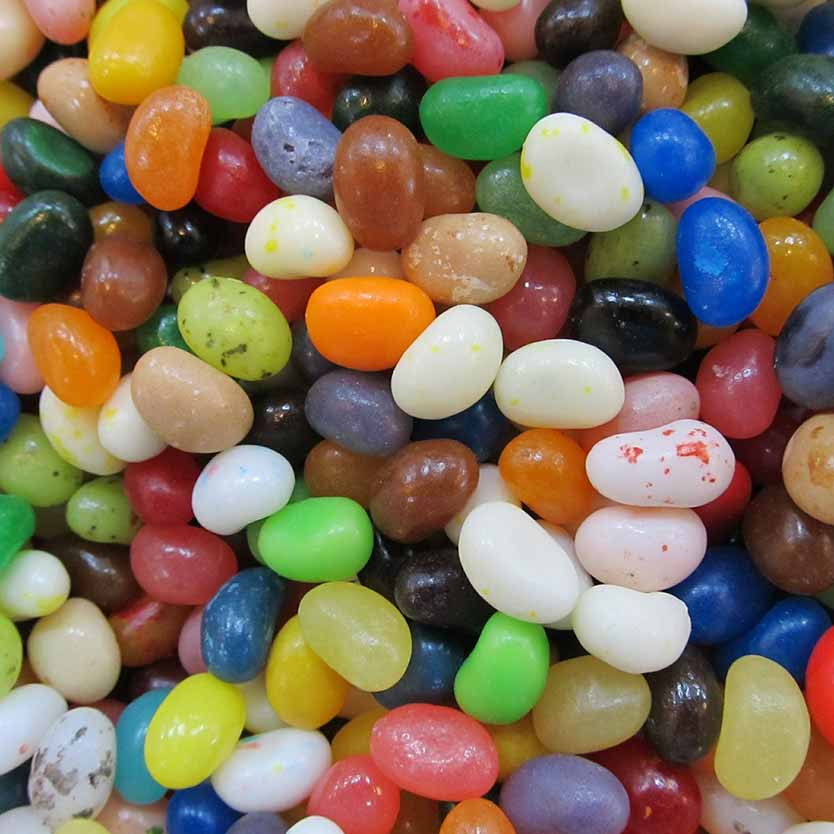
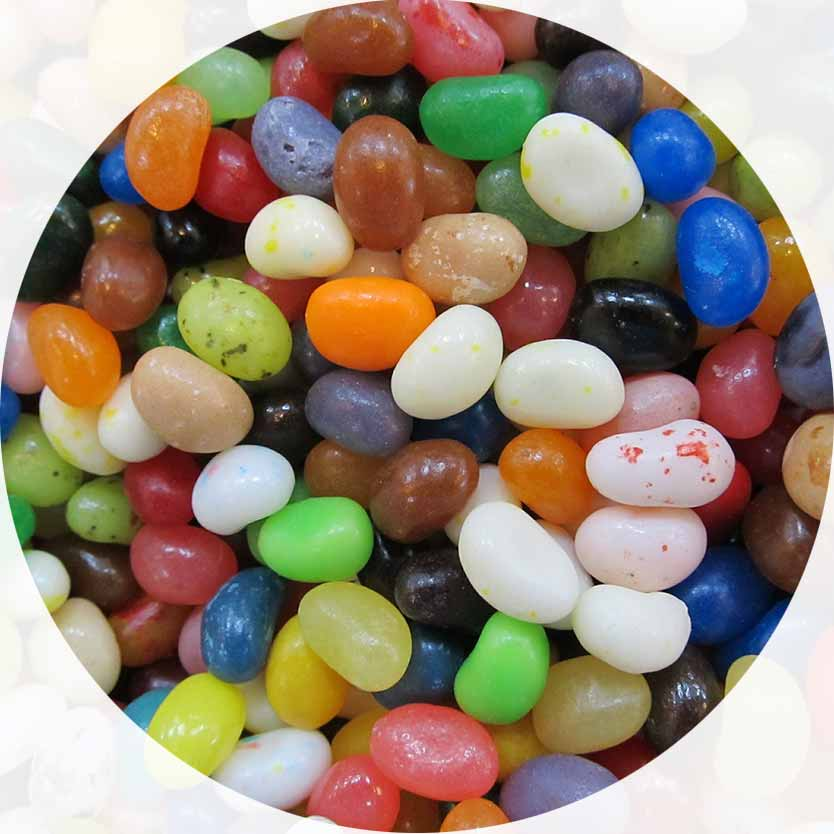
creating smaller images

Changed region(s): [[0.0, 0.0, 1.0, 1.0], [0.0, 0.0, 0.4365, 0.4365]]

diff --git a/index.html b/index.html
@@ -59,21 +59,21 @@
 
           <div class="grid">
             <div class="unit s-1 m-1 l-1-3 gutter">
-              <img class="img-flex" src="images/beans.png" alt="Photo of a colourful array of jelly beans">
+              <img class="img-flex" src="images/beans.jpg" alt="Photo of a colourful array of jelly beans">
               <h3>Bertie Bot's 30 Flavour Beans</h3>
               <p>We're no Hogsmead, but you can get the authentic feel of Diagon Alley without the threat of Boggarts or Basilisks–and without the threat of booger flavoured jelly beans.</p>
               <p><strong>10/10 Muggles approve.</strong></p>
             </div>
 
             <div class="unit gutter unit-s-1 unit-m-1-2 unit-l-1-3">
-              <img class="img-flex" src="images/frogs.png" alt="Chocolate frogs">
+              <img class="img-flex" src="images/frogs.jpg" alt="Chocolate frogs">
               <h3>Tamed Chocolate Frogs</h3>
               <p>Forget fighting your afternoon tea–our chocolate frogs are trained to sit helplessly as you <em>gobble them into oblivion.</em></p>
               <p><strong>Sweet, delicious murder.</strong></p>
             </div>
 
             <div class="unit gutter unit-s-1 unit-m-1-2 unit-l-1-3">
-              <img class="img-flex" src="images/toffees.png" alt="Buttery looking toffees">
+              <img class="img-flex" src="images/toffees.jpg" alt="Buttery looking toffees">
               <h3>Treacle Tart Toffees</h3>
               <p>The man himself, Harry Potter's favourite treat–the Treacle Tart–now available in toffee form! Live like the boy who lived–unless you're Stupify!</p>
               <p><strong>Chewier than Hagrid's Rock Cakes.</strong></p>
